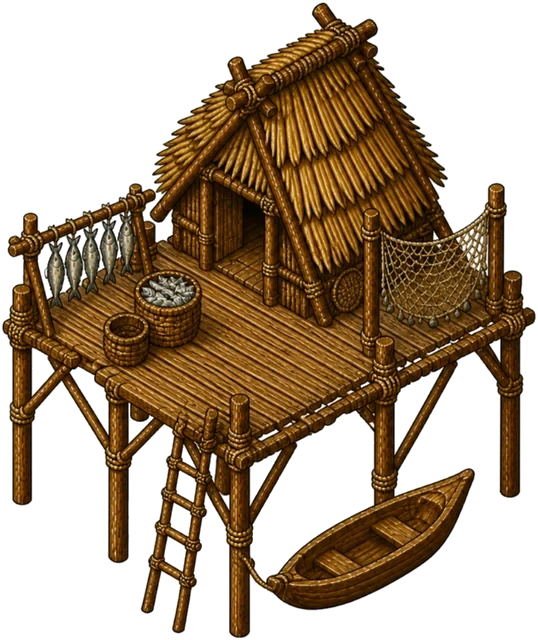
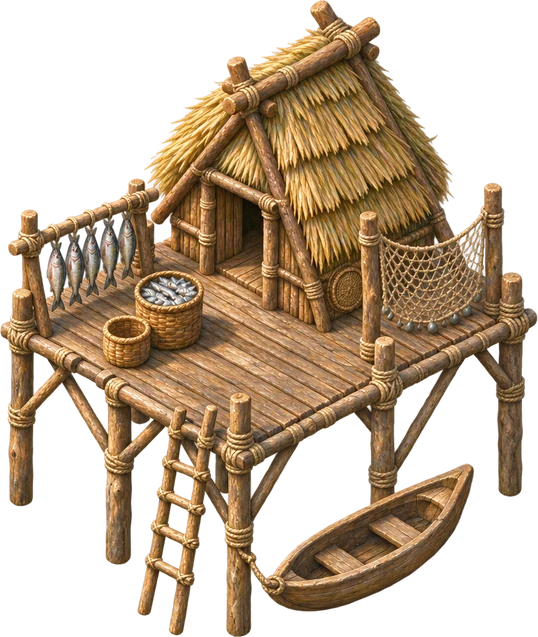
Epochia Version 201: Fischerhütte im neuen Stil, Bot spielt die Eisenzeit durch
Claude-Session: https://claude.ai/code/session_01W1n1hf4HzmNEgHroYYEZqd

diff --git a/neu/js/zeichnen.js b/neu/js/zeichnen.js
@@ -66,15 +66,14 @@ const missingImages = new Set();
 // Hütte auf Säulen: keine Platte im Bild – die Säulenfüße sind die Ecken der Raute. Das Boot wird aus dem Bild
 // gelöst und liegt immer auf einem echten Wasserfeld. Werte in Bildpunkten des Bildes (538 × 640).
 const STILT_IMAGES = {
-  '1-fischerhuette': {
-    sockel: { lx: 22 / 538, ly: 500 / 640, rx: 515 / 538, ry: 495 / 640, fx: 238 / 538, fy: 635 / 640, dicke: 0, farbe: '#6b4a2a', noClip: true },
-    boat: 'fischerboot', spanPx: 493,
-    outline: [[251, 553], [257, 555], [283, 553], [310, 536], [360, 508], [397, 494], [433, 479], [467, 464], [477, 469], [474, 488], [454, 535], [420, 572], [360, 602], [313, 613], [282, 607], [257, 592], [251, 580]],
+  '1-fischerhuette': {   // Scenario-Bild (V201, 538 × 637): Säulenfüße und Boot neu vermessen
+    sockel: { lx: 22 / 538, ly: 500 / 637, rx: 512 / 538, ry: 492 / 637, fx: 238 / 538, fy: 634 / 637, dicke: 0, farbe: '#6b4a2a', noClip: true },
+    boat: 'fischerboot', spanPx: 490,
+    outline: [[262, 590], [258, 560], [276, 543], [330, 513], [368, 495], [398, 482], [428, 462], [456, 446], [474, 434], [488, 450], [478, 500], [450, 543], [409, 576], [359, 601], [316, 617], [285, 619], [264, 606]],
   },
 };
 // Das Winterbild ist gleich aufgebaut: Sein gemaltes Boot muss genauso heraus (das lose Boot bekommt seinen Schnee vom Spiel)
-STILT_IMAGES['1-fischerhuette-winter'] = { ...STILT_IMAGES['1-fischerhuette'], boat: null,
-  outline: [[249, 553], [257, 553], [283, 551], [310, 534], [360, 506], [397, 490], [433, 475], [467, 460], [480, 466], [477, 490], [457, 537], [423, 575], [360, 606], [313, 617], [282, 611], [255, 595], [249, 582]] };
+STILT_IMAGES['1-fischerhuette-winter'] = { ...STILT_IMAGES['1-fischerhuette'], boat: null };
 function splitStiltBoat(name, img) {
   try {
     const d = STILT_IMAGES[name];

diff --git a/neu/index.html b/neu/index.html
@@ -3,7 +3,7 @@
 <head>
   <meta charset="UTF-8">
   <meta name="viewport" content="width=device-width, initial-scale=1, maximum-scale=1, user-scalable=no, viewport-fit=cover">
-  <meta name="app-version" content="200">
+  <meta name="app-version" content="201">
   <meta name="theme-color" content="#3d7a2a">
   <meta name="color-scheme" content="only light">
   <meta name="apple-mobile-web-app-capable" content="yes">

diff --git a/neu/js/daten.js b/neu/js/daten.js
@@ -2,7 +2,7 @@
 // Epochia – alle Spieldaten (Zahlen zum Feinjustieren stehen hier oben, die Logik liest nur daraus).
 // Pläne: docs/konzept-neu.md und docs/epoche-1-steinzeit.md
 
-const APP_VERSION = 200;
+const APP_VERSION = 201;
 
 const CONFIG = {
   mapSize: 512,           // Felder je Seite, zentral änderbar (Vielfaches von 16; 64 bis Version 21, 128 bis Version 54 – alte Karten liegen in der Mitte)

diff --git a/neu/service-worker.js b/neu/service-worker.js
@@ -1,6 +1,6 @@
 // Epochia – offline spielen. Bei Änderungen die Versionsnummer erhöhen (gleiche Nummer wie
 // APP_VERSION in js/daten.js und <meta name="app-version"> in index.html).
-const CACHE = 'v200';
+const CACHE = 'v201';
 const ASSETS = [
   './',
   'index.html',

diff --git a/docs/wuensche.md b/docs/wuensche.md
@@ -25,6 +25,7 @@ Stichworte reichen, z. B. „- Farm zeigt falsche Arbeiterzahl nach dem Verschie
 
 
 ## Erledigt
+- 2026-11-16, Epochia Version 201 – Fischerhütte im neuen Stil (Säulenfüße und Boot neu vermessen, Boot liegt weiter auf eigenem Wasserfeld). Spielfluss Eisenzeit geprüft: Bot kann jetzt Eisen, Salz und Glas herstellen und den Salzberg bauen (neu/tools/bot-eisen.mjs); er erreicht die Keltenschrift nach 1156 min ab Kupferzeit (Eisenzeit ab 535 min), keine Sperre gefunden. Bremse wie in der Bronzezeit: Ton (Rennofen kostet 30 Ton) – Entscheidung bei Emin.
 - 2026-11-16, Epochia Version 200 – Wunsch Emin: Steinzeit-Gebäude im neuen halb-realistischen Stil (Scenario), Sommer und Winter, Vorderansicht: 24 Gebäude (alle außer Fischerhütte, deren Säulen und Boot im Spiel genau vermessen sind). Rückansichten und Arbeiter folgen mit dem Pro-Plan; neue Figuren-Proben liegen in ~/Bilder/epochia-scenario-probe.
 - 2026-11-16, Epochia Version 199 – Fehler beim Prüfen des Spielflusses (Bot): Die Erzader konnte tief im Hochgebirge entstehen, wo niemand hinkommt; sie blieb liegen und es kam keine neue – ohne Goldblättchen wurde die Halle der Himmelsscheibe nie fertig, kein Aufbruch in die Eisenzeit. Jetzt entstehen Fundstellen im Gebirge nur im Bergland oder am Rand des Hochgebirges, festsitzende verschwinden (auch in alten Ständen), der Bergmann kommt aus der nächsten erreichbaren Mine. Bot: Eisenzeit nach 535 min ab Kupferzeit (vorher nie).
 - 2026-11-16, Epochia Version 198 – Fehler von Emin (Bildschirmfotos 15.11.): Ufer hatten Wolken-Bögen und Treppenstufen – Sand, Wasser und Gebirge haben jetzt einen weich geschwungenen Rand (weichgezeichnete Feldkarte statt Kreisen). Im See lag ein Rautenmuster aus hellen Nähten (Wassertiefe an den Kachelrändern) – weg; die zweite Wasserlage ist größer und versetzt, damit sich die Wiederholung des Wasserbilds nicht mehr abzeichnet.
